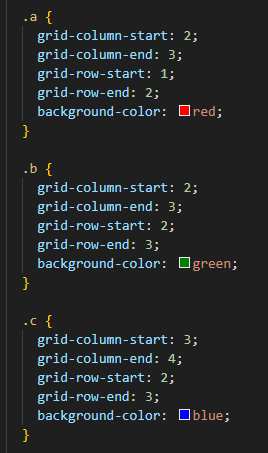
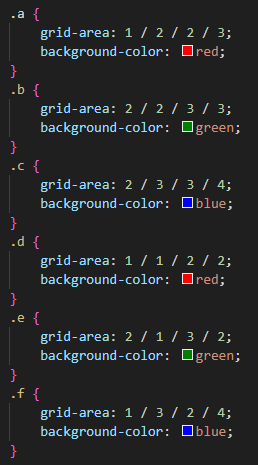
fix: 04_Line_based-placement_shorthand_grid-area

diff --git a/04_Line-Based-Placement-Shorthand_grid-area.html b/04_Line-Based-Placement-Shorthand_grid-area.html
@@ -14,72 +14,71 @@
 
         .ej1 {
             grid-template-columns: 100px 100px 100px;
+
+            .a {
+                grid-area: 1 / 2 / 2 / 3;
+                background-color: red;
+            }
+
+            .b {
+                grid-area: 2 / 2 / 3 / 3;
+                background-color: green;
+            }
+
+            .c {
+                grid-area: 2 / 3 / 3 / 4;
+                background-color: blue;
+            }
+
+            .d {
+                grid-area: 1 / 1 / 2 / 2;
+                background-color: red;
+            }
+
+            .e {
+                grid-area: 2 / 1 / 3 / 2;
+                background-color: green;
+            }
+
+            .f {
+                grid-area: 1 / 3 / 2 / 4;
+                background-color: blue;
+            }
         }
 
         .ej2 {
             grid-template-columns: auto auto auto auto;
-        }
 
-        .a {
-            grid-area: 1 / 2 / 2 / 3;
-            background-color: red;
-        }
+            .a {
+                grid-area: 1 / 1 / 2 / 3;
+                background-color: red;
+            }
 
-        .b {
-            grid-area: 2 / 2 / 3 / 3;
-            background-color: green;
-        }
+            .b {
+                grid-area: 2 / 1 / 3 / 2;
+                background-color: green;
+            }
 
-        .c {
-            grid-area: 2 / 3 / 3 / 4;
-            background-color: blue;
-        }
+            .c {
+                grid-area: 2 / 2 / 4 / 3;
+                background-color: blue;
+            }
 
-        .d {
-            grid-area: 1 / 1 / 2 / 2;
-            background-color: red;
-        }
+            .d {
+                grid-area: 1 / 3 / 4 / 5;
+                background-color: red;
+            }
 
-        .e {
-            grid-area: 2 / 1 / 3 / 2;
-            background-color: green;
-        }
+            .e {
+                grid-area: 3 / 1 / 4 / 2;
+                background-color: green;
+            }
 
-        .f {
-            grid-area: 1 / 3 / 2 / 4;
-            background-color: blue;
+            .f {
+                grid-area: 4 / 1 / 5 / 5;
+                background-color: blue;
+            }
         }
-
-        .a2 {
-            grid-area: 1 / 1 / 2 / 3;
-            background-color: red;
-        }
-
-        .b2 {
-            grid-area: 2 / 1 / 3 / 2;
-            background-color: green;
-        }
-
-        .c2 {
-            grid-area: 2 / 2 / 4 / 3;
-            background-color: blue;
-        }
-
-        .d2 {
-            grid-area: 1 / 3 / 4 / 5;
-            background-color: red;
-        }
-
-        .e2 {
-            grid-area: 3 / 1 / 4 / 2;
-            background-color: green;
-        }
-
-        .f2 {
-            grid-area: 4 / 1 / 5 / 5;
-            background-color: blue;
-        }
-
 
         .extra-content {
             background-color: var(--accent-color);
@@ -94,7 +93,7 @@
 </head>
 
 <body>
-    <h1>Line-based placement shorthand (grid-area)</h1>
+    <h1>Line-based placement shorthand - grid-area</h1>
 
     <blockquote>
         <p>Podemos lograr el mismo resultado anteriores declarando los cuatro valores con la propiedad
@@ -113,7 +112,10 @@
         </p>
     </blockquote>
 
-    <h2>Eje. 1 - (grid-template-columns: 100px 100px 100px;)</h2>
+    <h2>Eje. 1</h2>
+    <pre><code>
+    grid-template-columns: 100px 100px 100px;
+    </code></pre>
     <div class="contenedor ej1">
         <div class="caja a">A</div>
         <div class="caja b">B</div>
@@ -125,21 +127,33 @@
 
 
     <div class="extra-content">
-        <img src="images/line-base-placement.png" alt="">
-        <img src="images/line-base-placement-css-shorthand-area.png" alt="">
+        <img src="images/04_Line_based-placement_shorthand_grid-area.png" alt="">
+        <img src="images/line-base-placement-css.png" alt="">
     </div>
     <br>
     <hr>
     <br>
 
-    <h2>Eje. 2 - Line-based placement spanning tracks</h2>
+    <h2>Eje. 2</h2>
+    <pre><code>
+    grid-template-columns: auto auto auto auto;
+    </code></pre>
+    <blockquote>
+        <p>
+            Para crear áreas de cuadrícula más grandes que una sola pista de la cuadrícula, especificamos una línea de
+            finalización que está a más de una pista de distancia.
+        </p>
+        <p>Aquí estoy usando la sintaxis abreviada "grid-column" y "grid-row" y he omitido el valor de finalización para
+            aquellos elementos que abarcan una sola pista de fila o columna.
+        </p>
+    </blockquote>
     <div class="contenedor ej2">
-        <div class="caja a2">A</div>
-        <div class="caja b2">B</div>
-        <div class="caja c2">C</div>
-        <div class="caja d2">D</div>
-        <div class="caja e2">E</div>
-        <div class="caja f2">F</div>
+        <div class="caja a">A</div>
+        <div class="caja b">B</div>
+        <div class="caja c">C</div>
+        <div class="caja d">D</div>
+        <div class="caja e">E</div>
+        <div class="caja f">F</div>
     </div>
 
     <div class="extra-content">
@@ -147,7 +161,7 @@
             de
             cuadrícula, especificamos una línea final que está a más de una pista de distancia.</p>
         <img src="images/line-base-placement-shorthand-area-2.png" alt="">
-        <img src="images/line-base-placement-css-shorthand-area-2.png" alt="">
+        <img src="images/line-base-placement-css-shorthand-area-css-2.png" alt="">
     </div>
 
     <footer>
